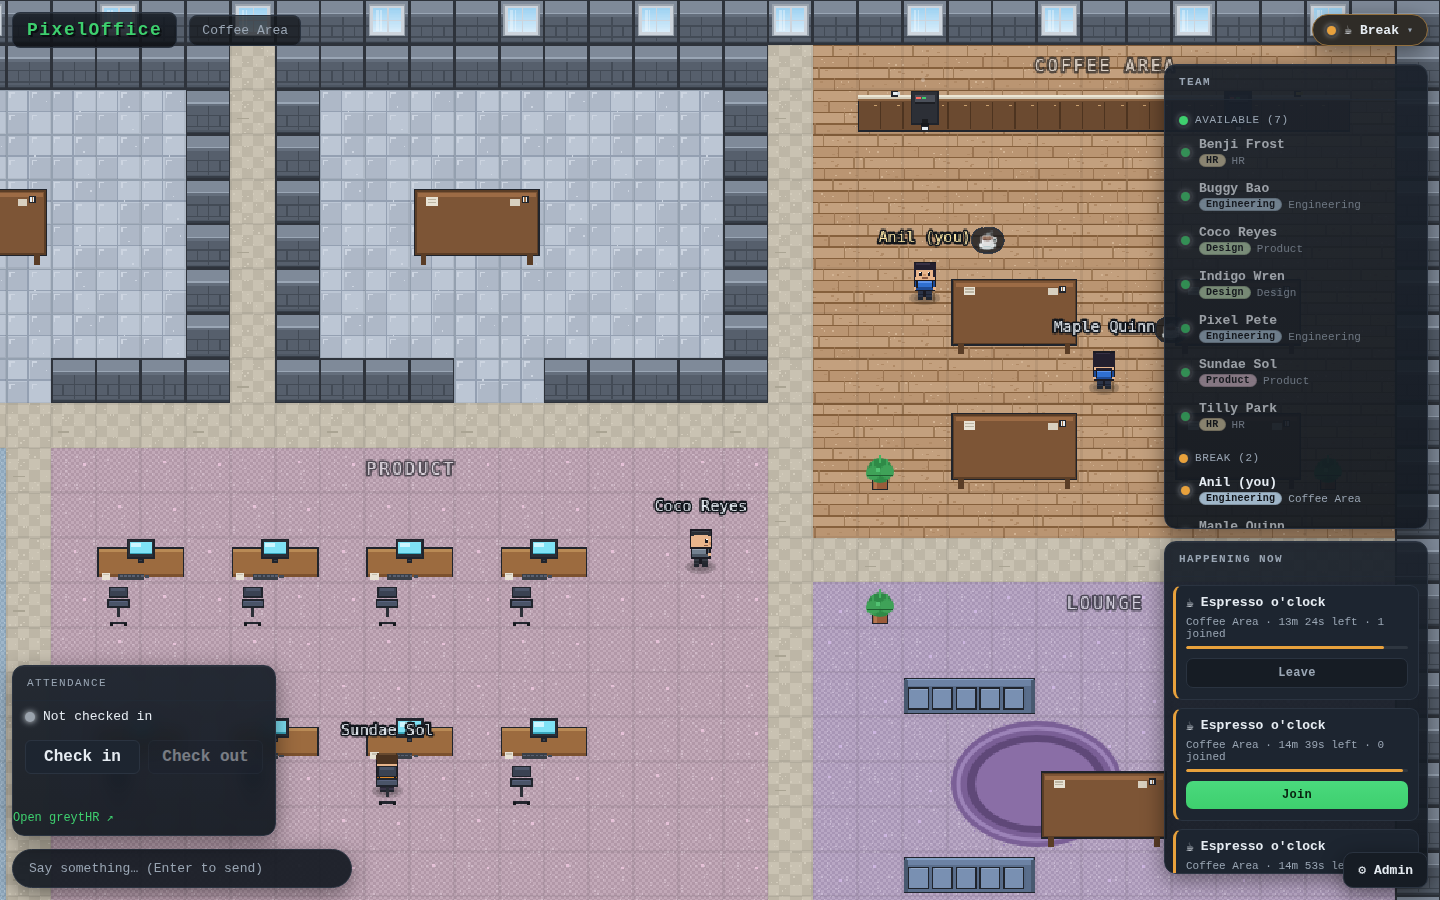
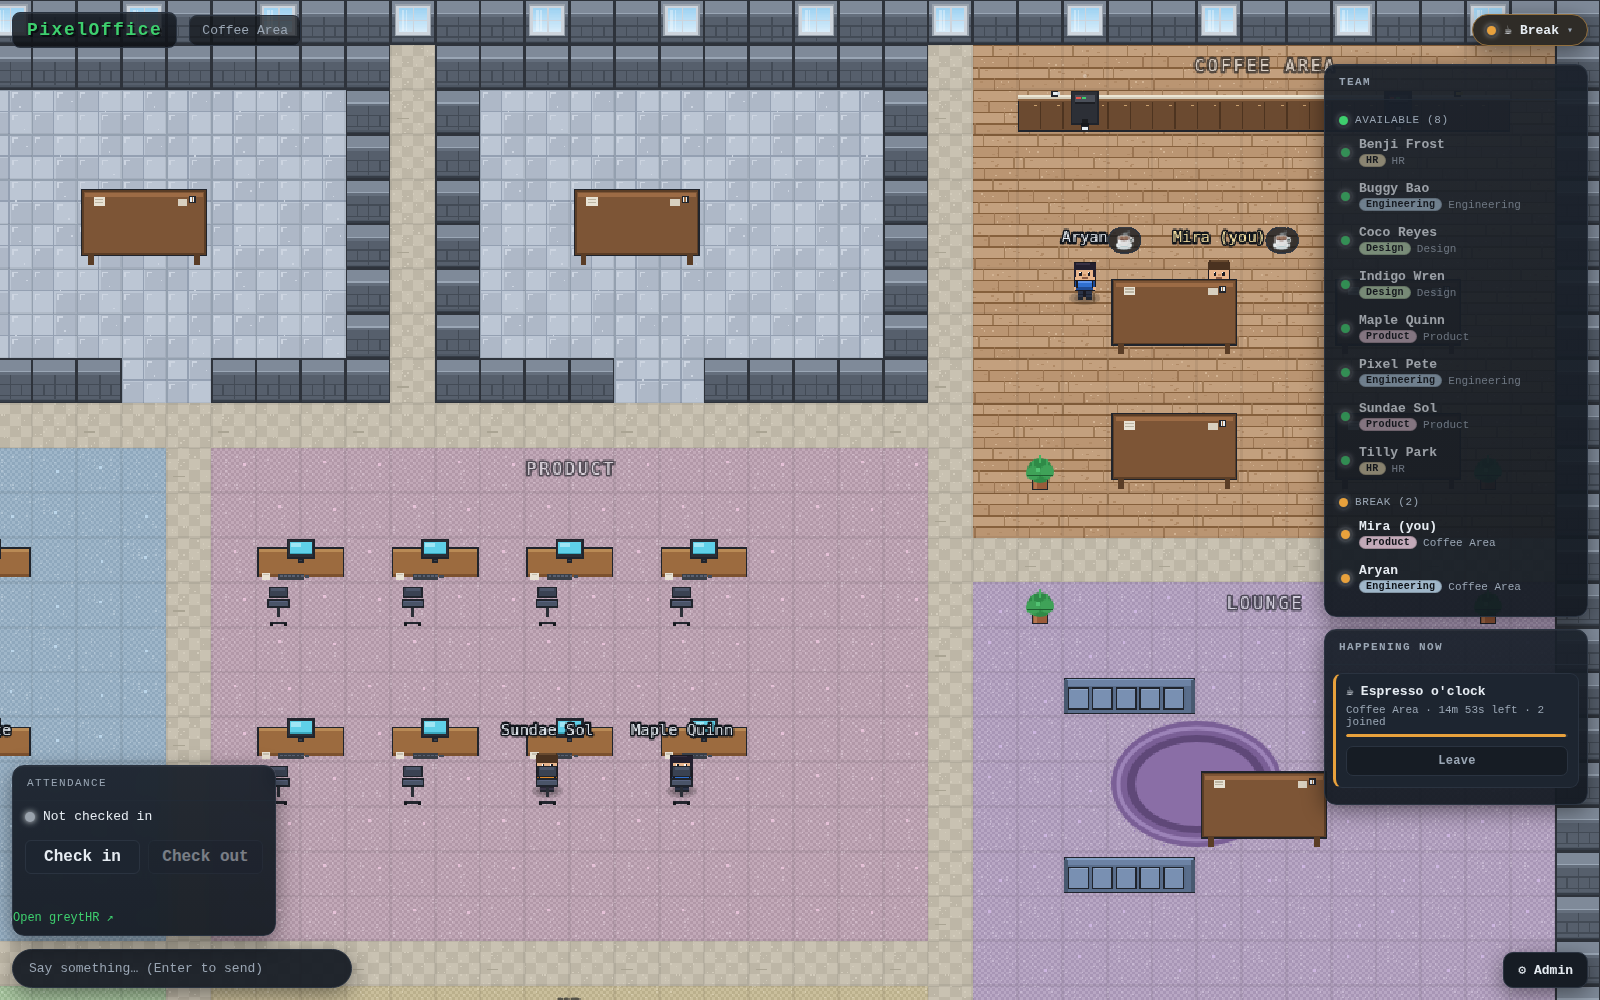
Fresh README screenshots (NPCs, coffee break, meeting flow); fix vite-preview port in endpoint derivation

diff --git a/client/src/net/connection.ts b/client/src/net/connection.ts
@@ -27,11 +27,13 @@ import {
 // In any other topology (SERVE_CLIENT single-container behind an https proxy on
 // 443, a LAN preview, etc.) the client is served from the SAME origin as the
 // server, so we must dial that same host:port — NOT a hardcoded :2567.
-const VITE_DEV_PORT = "5173";
+// 5173 = vite dev, 4173 = vite preview — both serve ONLY the client, so the
+// API/ws lives on DEFAULT_SERVER_PORT. Anything else is same-origin.
+const SEPARATE_API_PORTS = new Set(["5173", "4173"]);
 
-/** True when this page is being served by the Vite dev server (separate API). */
+/** True when this page is served by Vite (dev or preview) — separate API. */
 function isViteDev(): boolean {
-  return location.port === VITE_DEV_PORT;
+  return SEPARATE_API_PORTS.has(location.port);
 }
 
 /** host[:port] to dial. In dev the API runs on DEFAULT_SERVER_PORT; otherwise

diff --git a/README.md b/README.md
@@ -14,8 +14,12 @@ capture, or productivity scoring, ever.
 ![The office](docs/screenshots/office.png)
 
 <p align="center">
-  <img src="docs/screenshots/login.png" width="49%" alt="Login screen" />
   <img src="docs/screenshots/coffee-break.png" width="49%" alt="A coffee break in the Coffee Area" />
+  <img src="docs/screenshots/meeting.png" width="49%" alt="A meeting starting — pulsing Join button, never auto-teleport" />
+</p>
+
+<p align="center">
+  <img src="docs/screenshots/login.png" width="60%" alt="Login screen" />
 </p>
 
 **Docs:** [Player Guide](docs/GAMEPLAY.md) · [Architecture](docs/ARCHITECTURE.md) ·